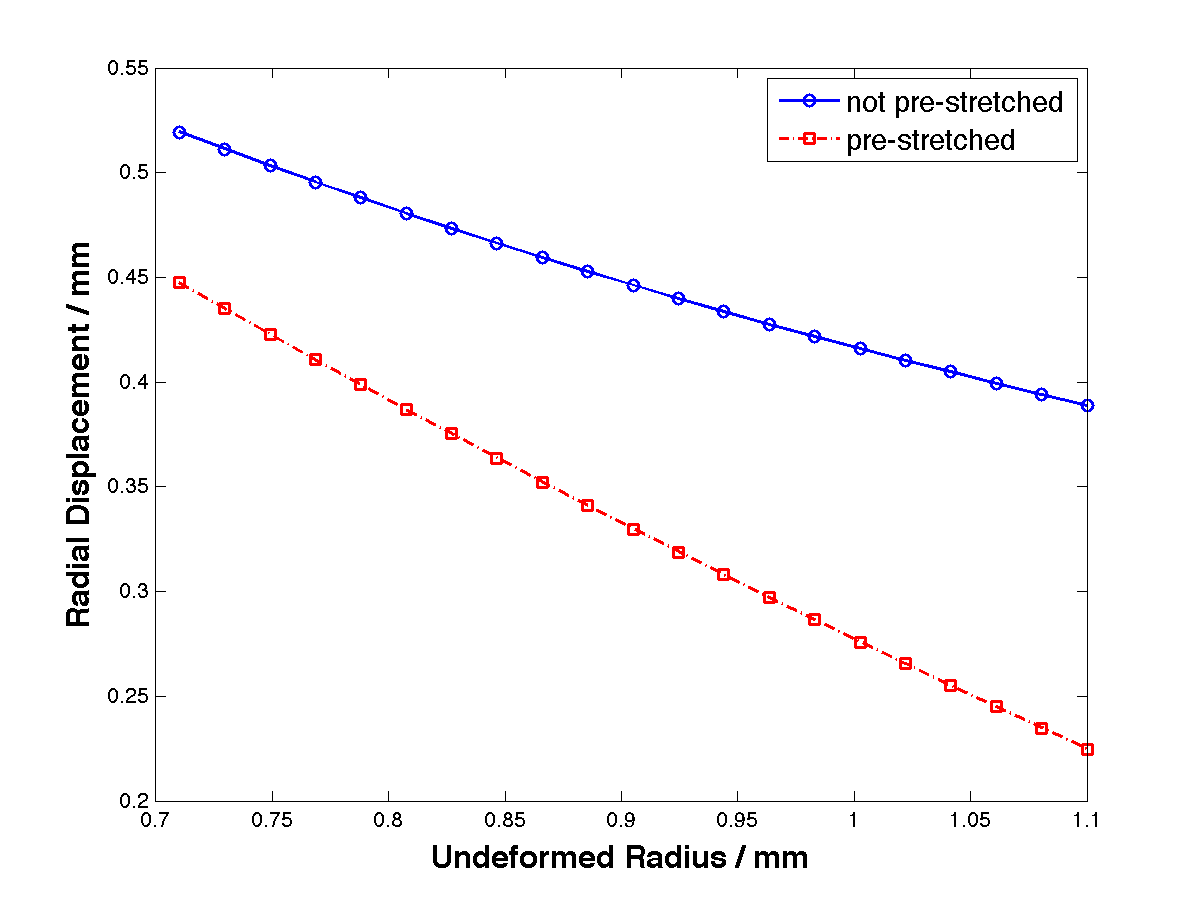
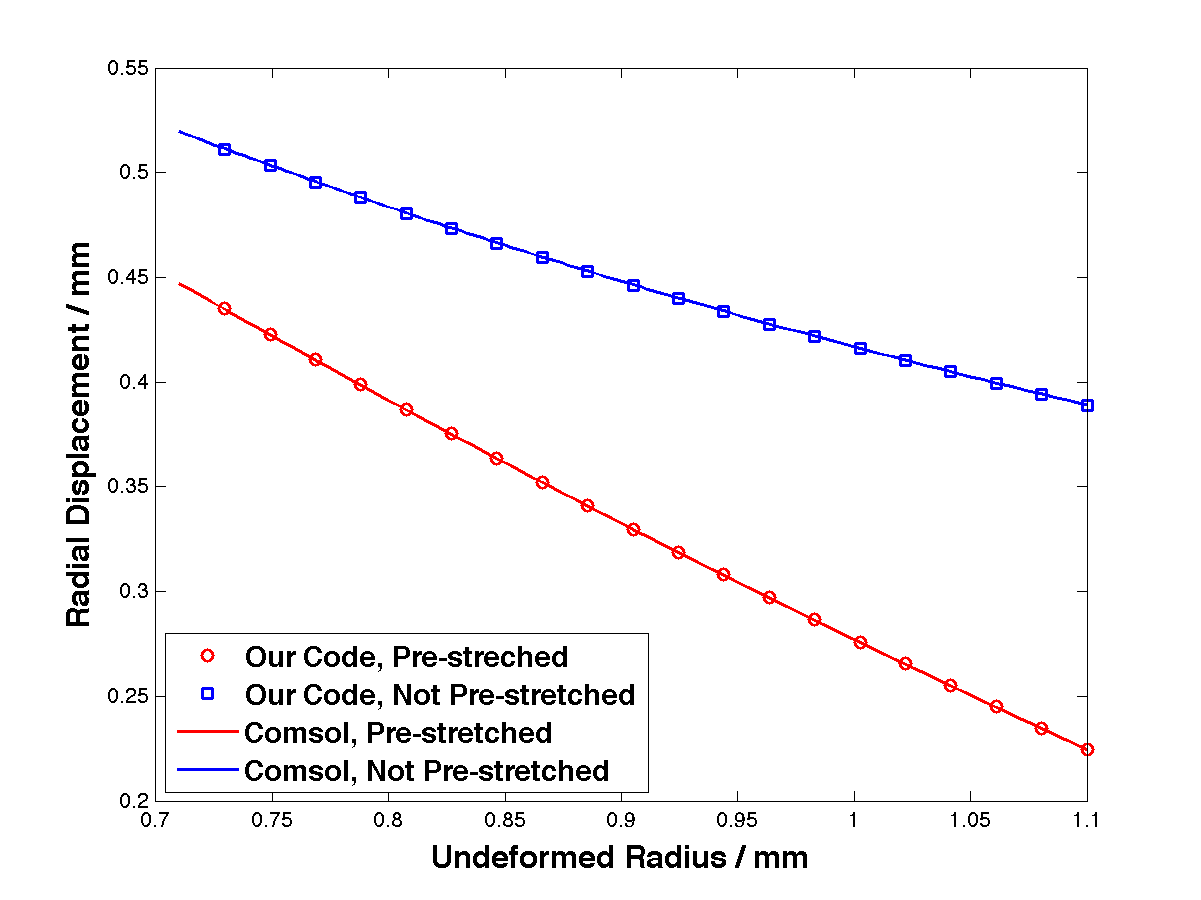
section 4 revisied again

diff --git a/paper/texFiles/introduction.tex b/paper/texFiles/introduction.tex
@@ -10,7 +10,7 @@ The mixed formulation was initially discussed in the context of linear elasticit
 
 This paper is motivated to address these two obstacles and clarify some of the frustrating issues presented in the existing literature in this field, as stated above. We will build a framework for the derivation and implementation of hyperelastic models and walk the readers through the implementation process with detailed examples. With the detailed derivation and the neat workflow, readers should be able to quickly implement any hyperelastic model with the standard displacement-based formulation or the mixed formulation. This is not only useful to the researchers who develop their own finite element code but also to those who work with commercial software with user-defined functions to include new constitutive models, especially for the ever-increasing newly defined models to describe biomaterials.
 
-The rest of this paper is organized as follows: in Section 2, we introduce the basics of the hyperelastic model followed by the general procedures to derive the stress and elasticity tensors. To demonstrate how they can be applied for specific models, we present three different examples: Mooney-Rivlin model, Yeoh model, and Holzapfel-Gasser-Ogden (HGO) model. Mooney-Rivlin model is simple but very effective in modeling large strain nonlinear behavior of incompressible materials such as rubber and biomaterial. Yeoh model contains only one invariant but with second order term. It is not complicated but can predict the correct behavior of elastomer material in the range of a greater extent of deformation than the Mooney-Rivlin model \cite{Gajewski}, and is able to characterize the stiffening phenomenon of vulcanized rubber. HGO model is designed to model collagen fiber-reinforced biological materials. This anisotropic model is so widely used that many commercial and open-source finite element codes have included it,  such as Abaqus \cite{Abaqus}, COMSOL \cite{COMSOL} and FEBio \cite{FEBio}. In Section 3, we briefly review the theory of the principle of virtual work and the principle of stationary potential energy. With these theories, the origin of mixed formulation is introduced and is further written in the matrix form. Along the way we also discuss the pressure load which is common in biomechanics while more difficult to implement than the obvious given traction because it involves the deformation of the loaded surface. To complete the finite element formulation in solving hyperelastic material problems, the linearization of the principle of stationary potential energy is presented. In Section 4, two sets of numerical experiments are presented: biaxial tension and vessel expansion tests. Both experiments are performed using the three hyperelastic models, where the results are validated with analytical solutions whenever possible, and isotropic and anisotropic behaviors are observed and compared. Finally, conclusions are drawn in Section 5.
+The rest of this paper is organized as follows: in Section 2, we introduce the basics of the hyperelastic model followed by the general procedures to derive the stress and elasticity tensors. To demonstrate how they can be applied for specific models, we present three different examples: Mooney-Rivlin model, Yeoh model, and Holzapfel-Gasser-Ogden (HGO) model. Mooney-Rivlin model is simple but very effective in modeling large strain nonlinear behavior of incompressible materials such as rubber and biomaterial. Yeoh model contains only one invariant but with second order term. It is not complicated but can predict the correct behavior of elastomer material in the range of a greater extent of deformation than the Mooney-Rivlin model \cite{Gajewski}, and is able to characterize the stiffening phenomenon of vulcanized rubber. HGO model is designed to model collagen fiber-reinforced biological materials. This anisotropic model is so widely used that many commercial and open-source finite element codes have included it as standard or user-defined model,  such as Abaqus \cite{Abaqus}, COMSOL \cite{COMSOL} and FEBio \cite{FEBio}. In Section 3, we briefly review the theory of the principle of virtual work and the principle of stationary potential energy. With these theories, the origin of mixed formulation is introduced and is further written in the matrix form. Along the way we also discuss the pressure load which is common in biomechanics while more difficult to implement than the obvious given traction because it involves the deformation of the loaded surface. To complete the finite element formulation in solving hyperelastic material problems, the linearization of the principle of stationary potential energy is presented. In Section 4, two sets of numerical experiments are presented: biaxial tension and vessel expansion tests. Both experiments are performed using the three hyperelastic models, where the results are validated with analytical solutions whenever possible, and isotropic and anisotropic behaviors are observed and compared. Finally, conclusions are drawn in Section 5.
 
 
 

diff --git a/paper/texFiles/section4.tex b/paper/texFiles/section4.tex
@@ -7,7 +7,7 @@ In this test, we examine the $3$ isotropic models and $1$ anisotropic model. Con
 
 \begin{figure}[H]
 \centering
-\includegraphics[width=.8\textwidth]{./figures/biaxial_schematic2.png}
+\includegraphics[width=.6\textwidth]{./figures/biaxial_schematic.png}
 \caption{Schematic Diagram of Biaxial Tension Test}
 \label{fig:biaxial_schematic}
 \end{figure}
@@ -213,7 +213,7 @@ As the last case, we use HGO model to simulate the expansion of the carotid arte
 
 \begin{figure}[H]
 \centering
-\includegraphics[width=.4\textwidth]{./figures/vessel_schematic3.png}
+\includegraphics[width=.3\textwidth]{./figures/vessel_schematic2.png}
 \caption{Schematic Diagram for the Artery Model}
 \label{fig:vessel_schematic3}
 \end{figure}
@@ -232,7 +232,9 @@ As the last case, we use HGO model to simulate the expansion of the carotid arte
 \end{tabular}
 \end{table}
 
-The \emph{in vivo} artery is not stress-free even without lumen pressure, this initial stress is known as residual stress. The release of the residual stress results in a longitudinal and radial retraction \cite{Fung4, Holzapfel3}. Therefore in experiments and computations, a pre-stretch is often applied. Other than that, open angle method is also frequently used to account for the residual stress \cite{Kassab, Finet}. In this work we apply an axial pre-stretch of $\lambda = 1.7$ without open angle to the artery to examine the effect of the pre-stress. Figure \ref{fig:artery} shows the computational results of both the non-pre-stretched and pre-stretched artery. The change in the displacement and stress distribution is obvious. With the pre-stretching, radial displacement drops significantly, but the decrease in the outer surface is much more. It means that the outer wall of the deformed vessel does not move much but the inner wall is squeezed drastically, absorbing most of the energy. The distribution of hoop stress and axial stress are more uneven with the pre-stretching and that of radial stress does not change a lot. With the pre-stretching, the hoop and axial stress are very high on the inner wall and taper off rapidly. Notice that the hoop stress and the axial stress have an steep drop at the intersection of two layers ($R = 0.97$ mm) while the radial stress is more smooth. Also the axial stress with pre-stretching shows a concave shape, and the minimum stress appears at the intersection. This effect is confirmed by the experiments presented in \cite{Keitzer}.
+The \emph{in vivo} artery is not stress-free even without lumen pressure, this initial stress is known as residual stress. The release of the residual stress results in a longitudinal and radial retraction \cite{Fung4, Holzapfel3}. Therefore in experiments and computations, a pre-stretch is often applied. Other than that, open angle method is also frequently used to account for the residual stress \cite{Kassab, Finet}. In this work we apply an axial pre-stretch of $\lambda = 1.7$ without open angle to the artery to examine the effect of the pre-stress. Figure \ref{fig:artery} shows the computational results of both the non-pre-stretched and pre-stretched artery, compared with the results obtained with Comsol. Our code agrees well with Comsol, except for the minor differences at the intersection of two layers. The results of our code shows a more smooth transition at the intersection than Comsol does. The reason is trivial: one must explicitly divide the mesh into two parts, generating a physical interface in order to assign different material parameters to two layers. While in our code the intersection is virtual, nothing more than a criterion to decide which set of material parameters to use. The vessel remains a whole part and there is no node sitting on the intersection.
+
+The change in the displacement and stress distribution is obvious. With the pre-stretching, radial displacement drops significantly, but the decrease in the outer surface is much more. It means that the outer wall of the deformed vessel does not move much but the inner wall is squeezed drastically, absorbing most of the energy. The distribution of hoop stress and axial stress are more uneven with the pre-stretching and that of radial stress does not change a lot. With the pre-stretching, the hoop and axial stress are very high on the inner wall and taper off rapidly. Notice that the hoop stress and the axial stress have an steep drop at the intersection of two layers ($R = 0.97$ mm) while the radial stress is more smooth. Also the axial stress with pre-stretching shows a concave shape, and the minimum stress appears at the intersection. This effect is also found in the experiments presented in \cite{Keitzer}.
 
 \begin{figure}[H]
 	\begin{subfigure}[b]{0.5\textwidth}
